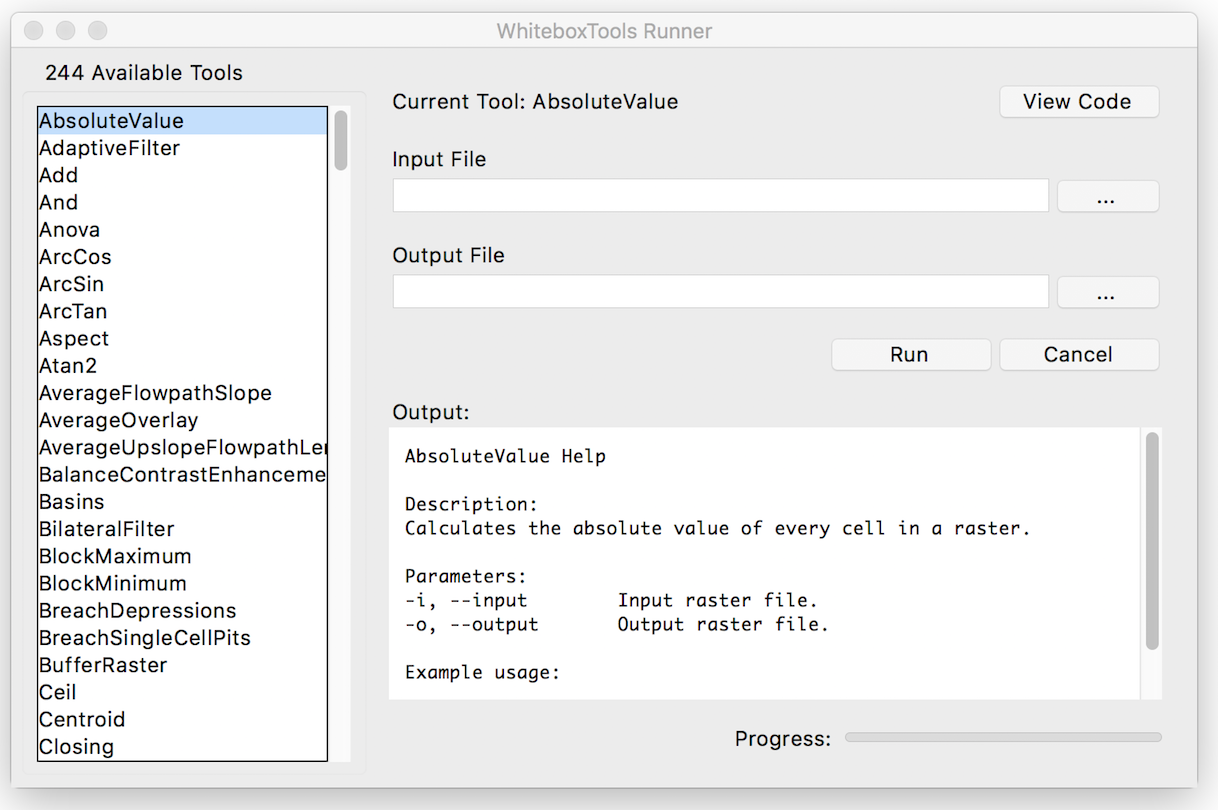
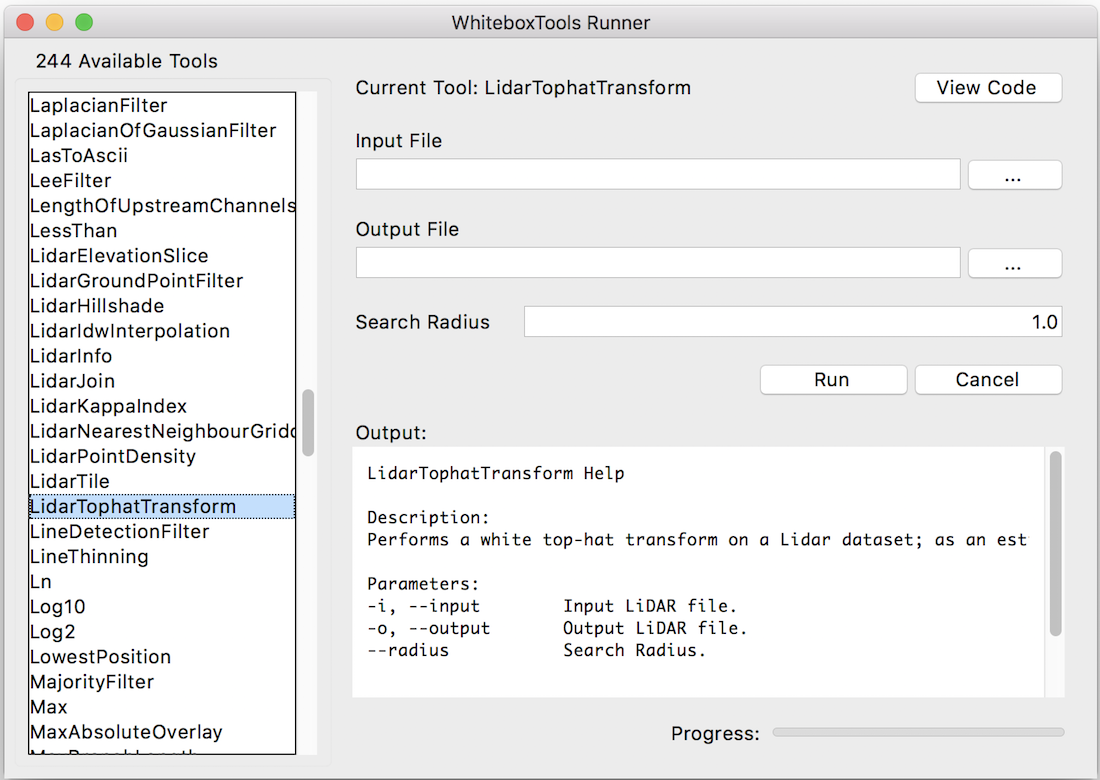
Minor updates
Minor updates

diff --git a/README.md b/README.md
@@ -44,7 +44,7 @@ Be sure to follow the instructions for installing Rust carefully. In particular,
 
 ## Usage
 
-*WhiteboxTools* is a command-line program and can be run either by calling it, with appropriate commands and arguments, from a terminal application, or, more conveniently, by calling it from a script. The following commands are recognized:
+*WhiteboxTools* is a command-line program and can be run either by calling it, with appropriate commands and arguments, from a terminal application, or, more conveniently, by calling it from a script. The following commands are recognized by the *WhiteboxTools* library:
 
 | Command        | Description                                                                  |
 | -------------- | ---------------------------------------------------------------------------- |
@@ -59,6 +59,8 @@ Be sure to follow the instructions for installing Rust carefully. In particular,
 Generally, the Unix convention is that single-letter arguments (options) use a single dash (e.g. -h) while word-arguments (longer, more descriptive argument names) use double dashes (e.g. --help). The same rule is used for passing arguments to tools as well. Use the *--toolhelp* argument to print information about a specific tool (e.g. --toolhelp=Clump). Tool names can be specified either using the snake_case or CamelCase convention (e.g. *lidar_info* or *LidarInfo*).
 
 For examples of how to call functions and run tools from *WhiteboxTools*, see the *whitebox_example.py* Python script, which itself uses the *whitebox_tools.py* script as an interface for interacting with the executable file. The *whitebox_tools.py* script calls the executable using subprocesses rather than as a dynamic library. Future versions may compile the library as a dynamic shared object if this is preferred.
+
+In addition to direct command-line and script-based interation, a very basic user-interface called *WB Runner* can be used to call the tools within the *WhiteboxTools* executable file, providing the required tool arguments.
 
 **Example command prompt:**
 
@@ -115,6 +117,7 @@ if wbt.run_tool(tool_name, args, callback) != 0:
 ```
 
 **WhiteboxTools Runner**
+
 There is a Python script contained within the *WhiteboxTools* directory called '*wb_runner.py*'. This script is intended to provide a very basic user-interface for running the tools contained within the *WhiteboxTools* library. The user-interface uses Python's TkInter GUI library and should be cross-platform. The user interface is currently experimental and is under heavy testing. Please report any issues that you experience in using it.
 
 ![WhiteboxTools Runner](./img/WBRunner.png)
